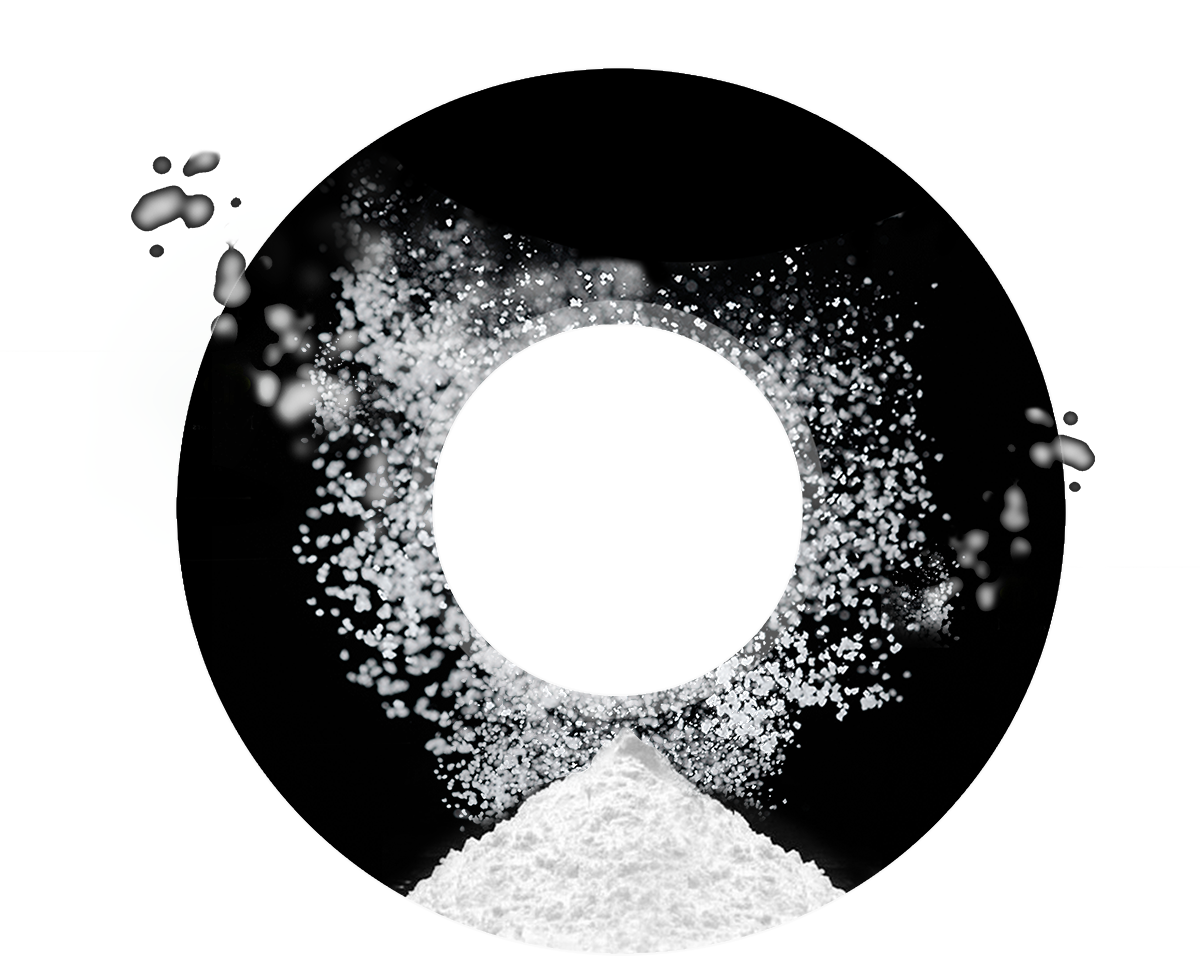
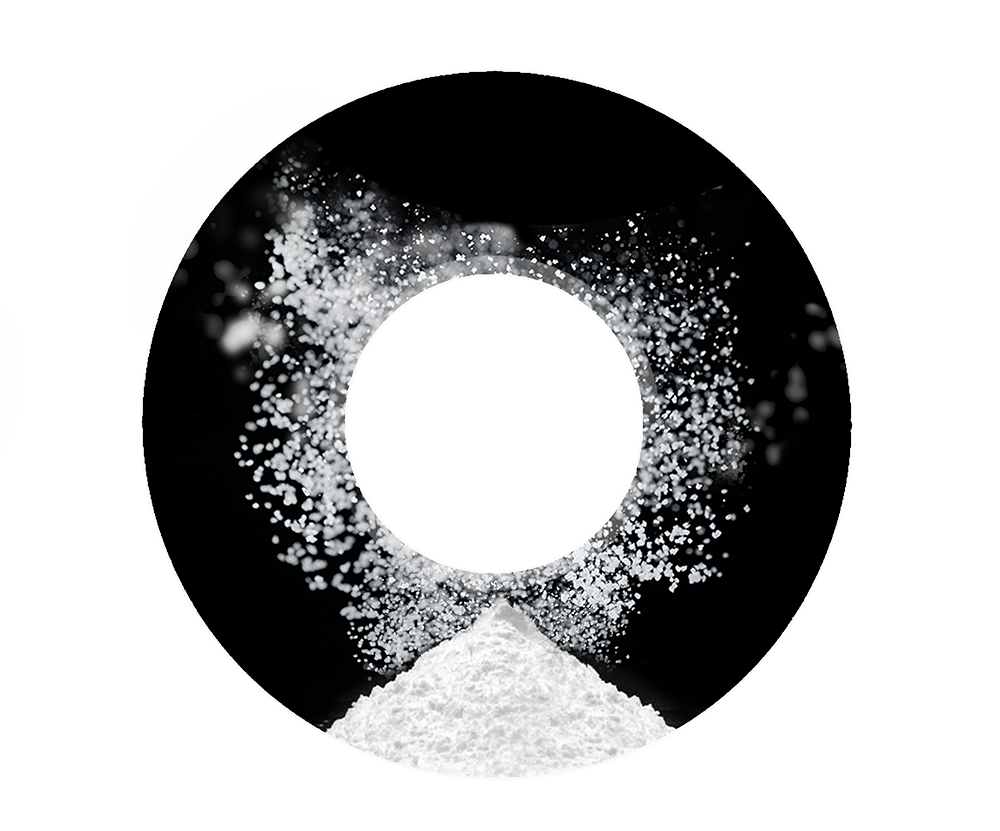
Update xong phan Product Forms

diff --git a/assets/js/fsourcing_productForm.js b/assets/js/fsourcing_productForm.js
@@ -1,28 +1,66 @@
 $(function () {
-  $('.productFormsContainer .controls .container').mouseenter(function () {
+  var order = 1;
+  var isPaused = false;
+  setInterval(function() {
+    if (!isPaused) {
+      order++;
+
+      $('.productFormsContainer .cycle img').hide();
+      $('.productFormsContainer .cycle span').hide();
+      $('.productFormsContainer .controls .container div').removeClass('active');
+
+      $('.productFormsContainer .cycle img.form'+order).show();
+      $('.productFormsContainer .cycle span.text'+order).show();
+      $('.productFormsContainer .controls .container div.showBlock'+order).addClass('active');
+
+      if (order >= 4) order = 0;
+    }
+
+  }, 3000);
+
+  $('.productFormsContainer .cycle img').mouseenter(function () {
+    isPaused = true;
+
+    if ($(this).hasClass('form1') ||
+        $(this).hasClass('form2') ||
+        $(this).hasClass('form3') ||
+        $(this).hasClass('form4')) {
+      $(this).hide();
+      var tmpClass = $(this).attr('class');
+      $('.'+tmpClass+'-active').show();
+    }
+  });
+  $('.productFormsContainer .cycle img').mouseleave(function () {
+
+    if ($(this).hasClass('form1-active') ||
+        $(this).hasClass('form2-active') ||
+        $(this).hasClass('form3-active') ||
+        $(this).hasClass('form4-active')) {
+      isPaused = false;
+    }
+  });
+  $('.productFormsContainer .controls .container div').mouseenter(function () {
+    isPaused = true;
     $('.productFormsContainer .controls .container div').removeClass('active');
+    $(this).addClass('active');
     $('.productFormsContainer .cycle img').hide();
     $('.productFormsContainer .cycle span').hide();
 
-    if ($(this).hasClass('ctop')) {
-      $('.showBlock1').addClass('active');
-      $('.productFormsContainer .cycle .form1').show();
+    if ($(this).hasClass('showBlock1')) {
+      order = 1;
+      $('.productFormsContainer .cycle img.form1-active').show();
       $('.productFormsContainer .cycle span.text1').show();
-    }
-    if ($(this).hasClass('cright')) {
-      $('.showBlock2').addClass('active');
-      $('.productFormsContainer .cycle .form2').show();
+    }else if ($(this).hasClass('showBlock2')) {
+      order = 2;
+      $('.productFormsContainer .cycle img.form2-active').show();
       $('.productFormsContainer .cycle span.text2').show();
-    }
-    if ($(this).hasClass('cleft')) {
-      $('.showBlock3').addClass('active');
-      $('.productFormsContainer .cycle .form3').show();
+    }else if ($(this).hasClass('showBlock3')) {
+      order = 3;
+      $('.productFormsContainer .cycle img.form3-active').show();
       $('.productFormsContainer .cycle span.text3').show();
-      $('.productFormsContainer .cycle span.text3_2').show();
-    }
-    if ($(this).hasClass('cbottom')) {
-      $('.showBlock4').addClass('active');
-      $('.productFormsContainer .cycle .form4').show();
+    }else if ($(this).hasClass('showBlock4')) {
+      order = 0;
+      $('.productFormsContainer .cycle img.form4-active').show();
       $('.productFormsContainer .cycle span.text4').show();
     }
   });

diff --git a/assets/css/fsourcing.css b/assets/css/fsourcing.css
@@ -1577,31 +1577,28 @@ body, html {
   -webkit-border-radius: 50%;
 }
 
-.productFormsContainer .cycle .form1{
+.productFormsContainer .cycle .form1,
+.productFormsContainer .cycle .form1-active,
+.productFormsContainer .cycle .form2,
+.productFormsContainer .cycle .form2-active,
+.productFormsContainer .cycle .form3,
+.productFormsContainer .cycle .form3-active,
+.productFormsContainer .cycle .form4,
+.productFormsContainer .cycle .form4-active{
   position: absolute;
-  width: 1010px;
-  top: -56px;
-  left: -148px;
+  width: 1055px;
+  top: -75px;
+  left: -150px;
 }
-.productFormsContainer .cycle .form2{
-  position: absolute;
-  width: 1065px;
-  top: -2px;
-  left: -313px;
+.productFormsContainer .cycle .form1-active,
+.productFormsContainer .cycle .form2-active,
+.productFormsContainer .cycle .form3-active,
+.productFormsContainer .cycle .form4-active{
   display: none;
 }
-.productFormsContainer .cycle .form3{
-  position: absolute;
-  width: 1135px;
-  top: -103px;
-  left: -190px;
-  display: none;
-}
+.productFormsContainer .cycle .form2,
+.productFormsContainer .cycle .form3,
 .productFormsContainer .cycle .form4{
-  position: absolute;
-  width: 935px;
-  top: -132px;
-  left: -107px;
   display: none;
 }
 .productFormsContainer .controls .container{

diff --git a/application/views/frontend/sourcing_product_forms.php b/application/views/frontend/sourcing_product_forms.php
@@ -8,16 +8,27 @@
   </div>
   <div class="content">
     <div class="cycle">
-      <img src="/assets/images/productForms-1.png" alt="" class="form1"/><span class="text1"><i><u>Powder</u></i></span>
-      <img src="/assets/images/productForms-2.png" alt="" class="form2"/><span class="text2"><i><u>Ointment</u></i></span>
-      <img src="/assets/images/productForms-3.png" alt="" class="form3"/><span class="text3"><i><u>Liquid</u></i></span><span class="text3_2"><i><u>Solution</u></i></span>
-      <img src="/assets/images/productForms-4.png" alt="" class="form4"/><span class="text4"><i><u>Lick block</u></i></span>
+      <img src="/assets/images/productForms-1.png" alt="" class="form1"/>
+      <img src="/assets/images/productForms-1-active.png" alt="" class="form1-active"/>
+      <span class="text1"><i><u>Powder</u></i></span>
+
+      <img src="/assets/images/productForms-2.png" alt="" class="form2"/>
+      <img src="/assets/images/productForms-2-active.png" alt="" class="form2-active"/>
+      <span class="text2"><i><u>Ointment</u></i></span>
+
+      <img src="/assets/images/productForms-3.png" alt="" class="form3"/>
+      <img src="/assets/images/productForms-3-active.png" alt="" class="form3-active"/>
+      <span class="text3"><i><u>Liquid</u></i></span><span class="text3 text3_2"><i><u>Solution</u></i></span>
+
+      <img src="/assets/images/productForms-4.png" alt="" class="form4"/>
+      <img src="/assets/images/productForms-4-active.png" alt="" class="form4-active"/>
+      <span class="text4"><i><u>Lick block</u></i></span>
 
       <div class="controls">
         <a><div class="container ctop"><div class="showBlock1 active"></div></div></a>
         <a><div class="container cright"><div class="showBlock2"></div></div></a>
-        <a><div class="container cleft"><div class="showBlock3"></div></div></a>
-        <a><div class="container cbottom"><div class="showBlock4"></div></div></a>
+        <a><div class="container cbottom"><div class="showBlock3"></div></div></a>
+        <a><div class="container cleft"><div class="showBlock4"></div></div></a>
       </div>
     </div>
   </div>
